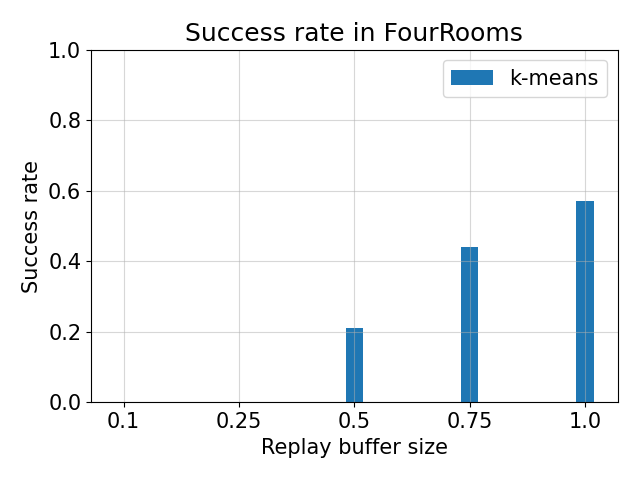
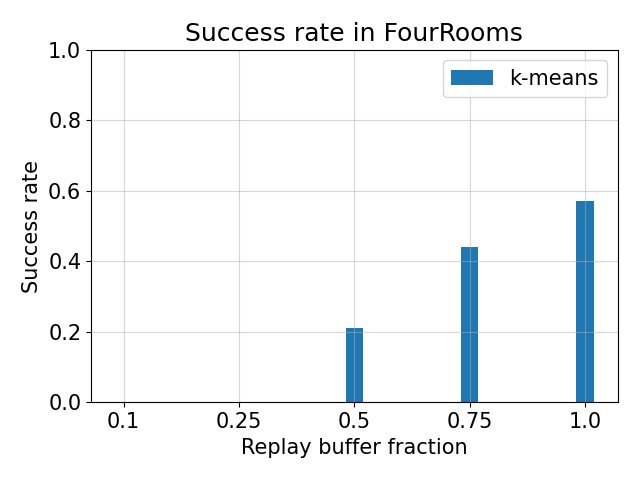
updated kmeanssamebuffer plot

Changed region(s): [[0.375, 0.9062, 0.7188, 0.9688]]

diff --git a/plot.py b/plot.py
@@ -84,7 +84,7 @@ def show_results(experiments, env, resize_factor, training_iters):
         'kmeansbuffersize': 'Replay buffer size',
         'maxdist': 'MaxDist parameter',
         'upsampling': 'Replay buffer size',
-        'kmeanssamebuffer': 'Replay buffer size'
+        'kmeanssamebuffer': 'Replay buffer fraction'
         }
     for exp in experiments:
         all_succ_rates = [[], [], []]
@@ -116,7 +116,7 @@ envs = ['FourRooms']
 resize_factor = 10
 training_iters = 1000000
 # Possible experiments: 'distance', 'kmeansdistance', 'kmeansbuffersize', 'maxdist', 'upsampling', 'kmeanssamebuffer'
-experiments = ['maxdist', 'kmeanssamebuffer']
+experiments = ['kmeanssamebuffer']
 
 for env in envs:
     show_results(experiments, env, resize_factor, training_iters)
